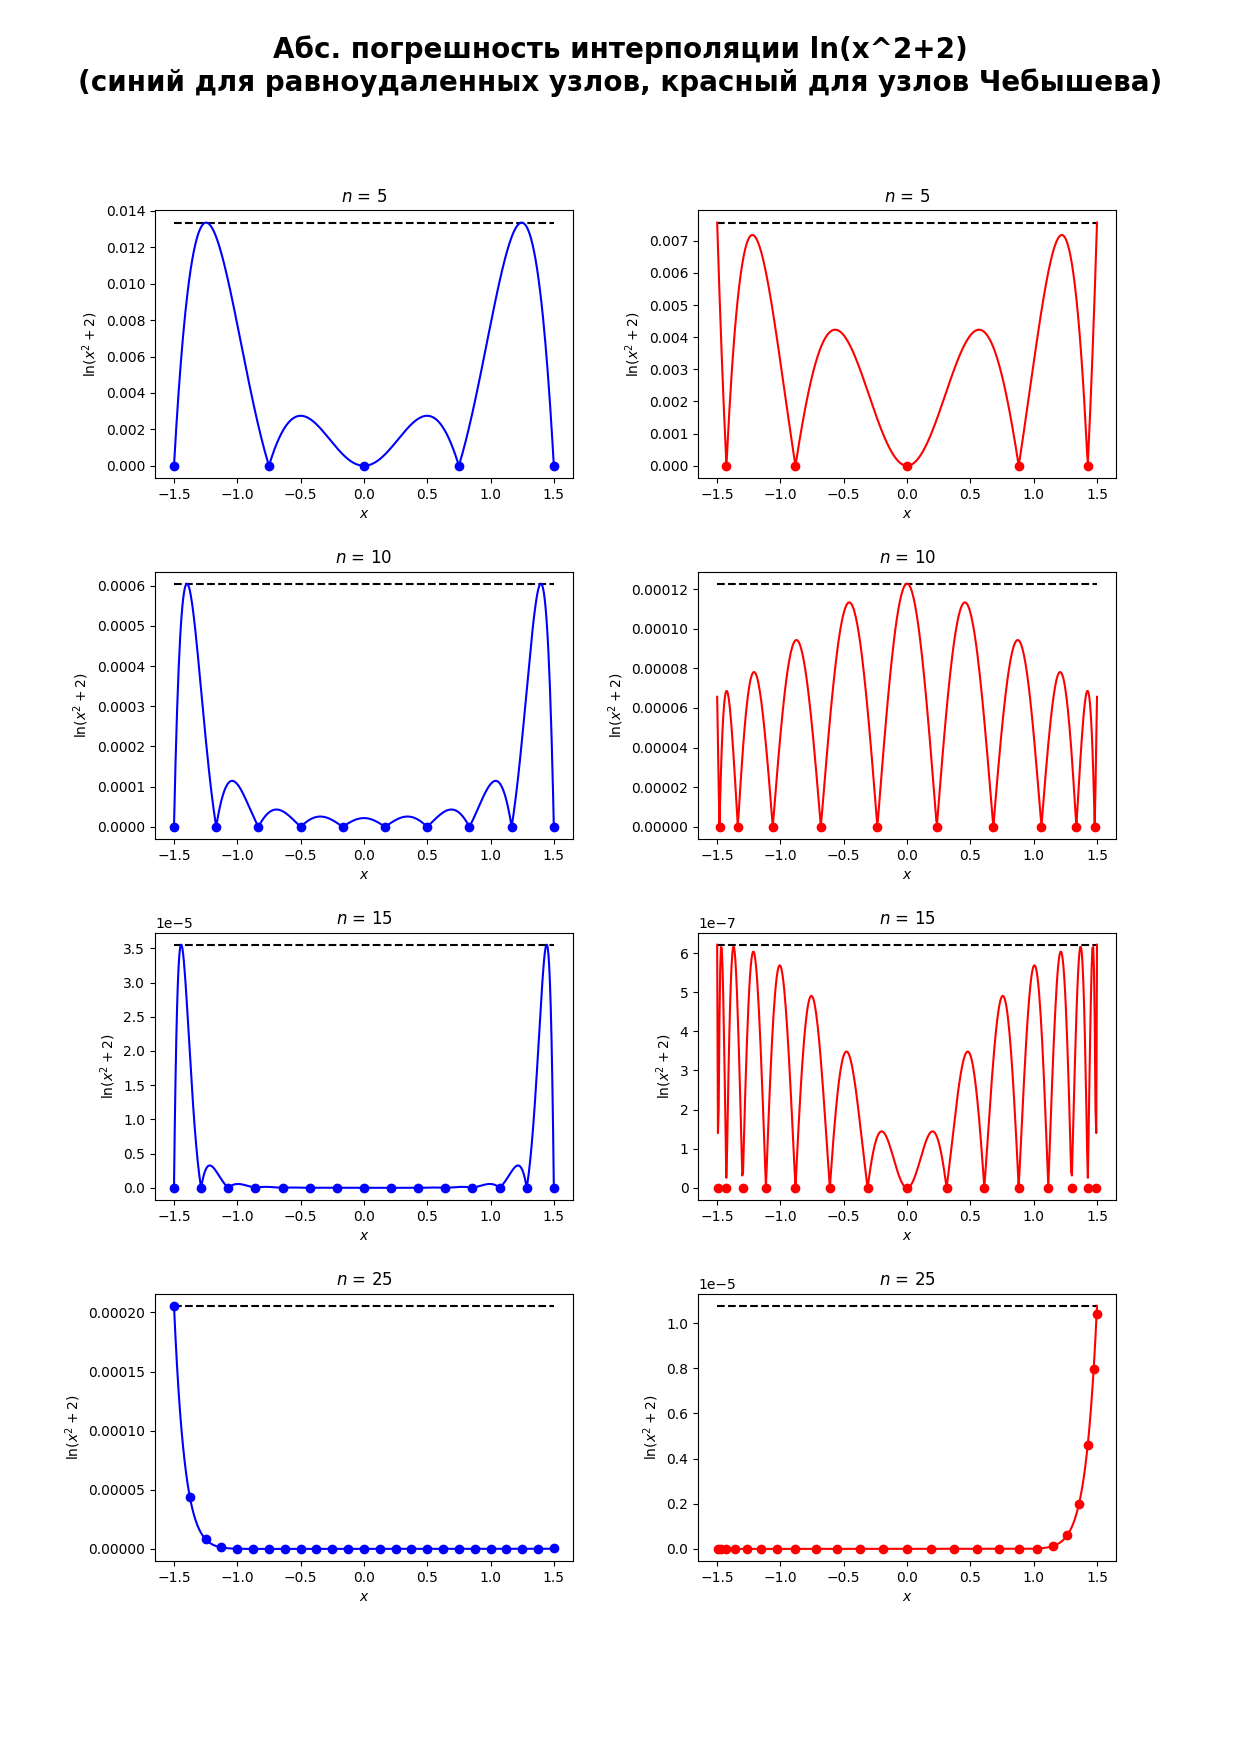
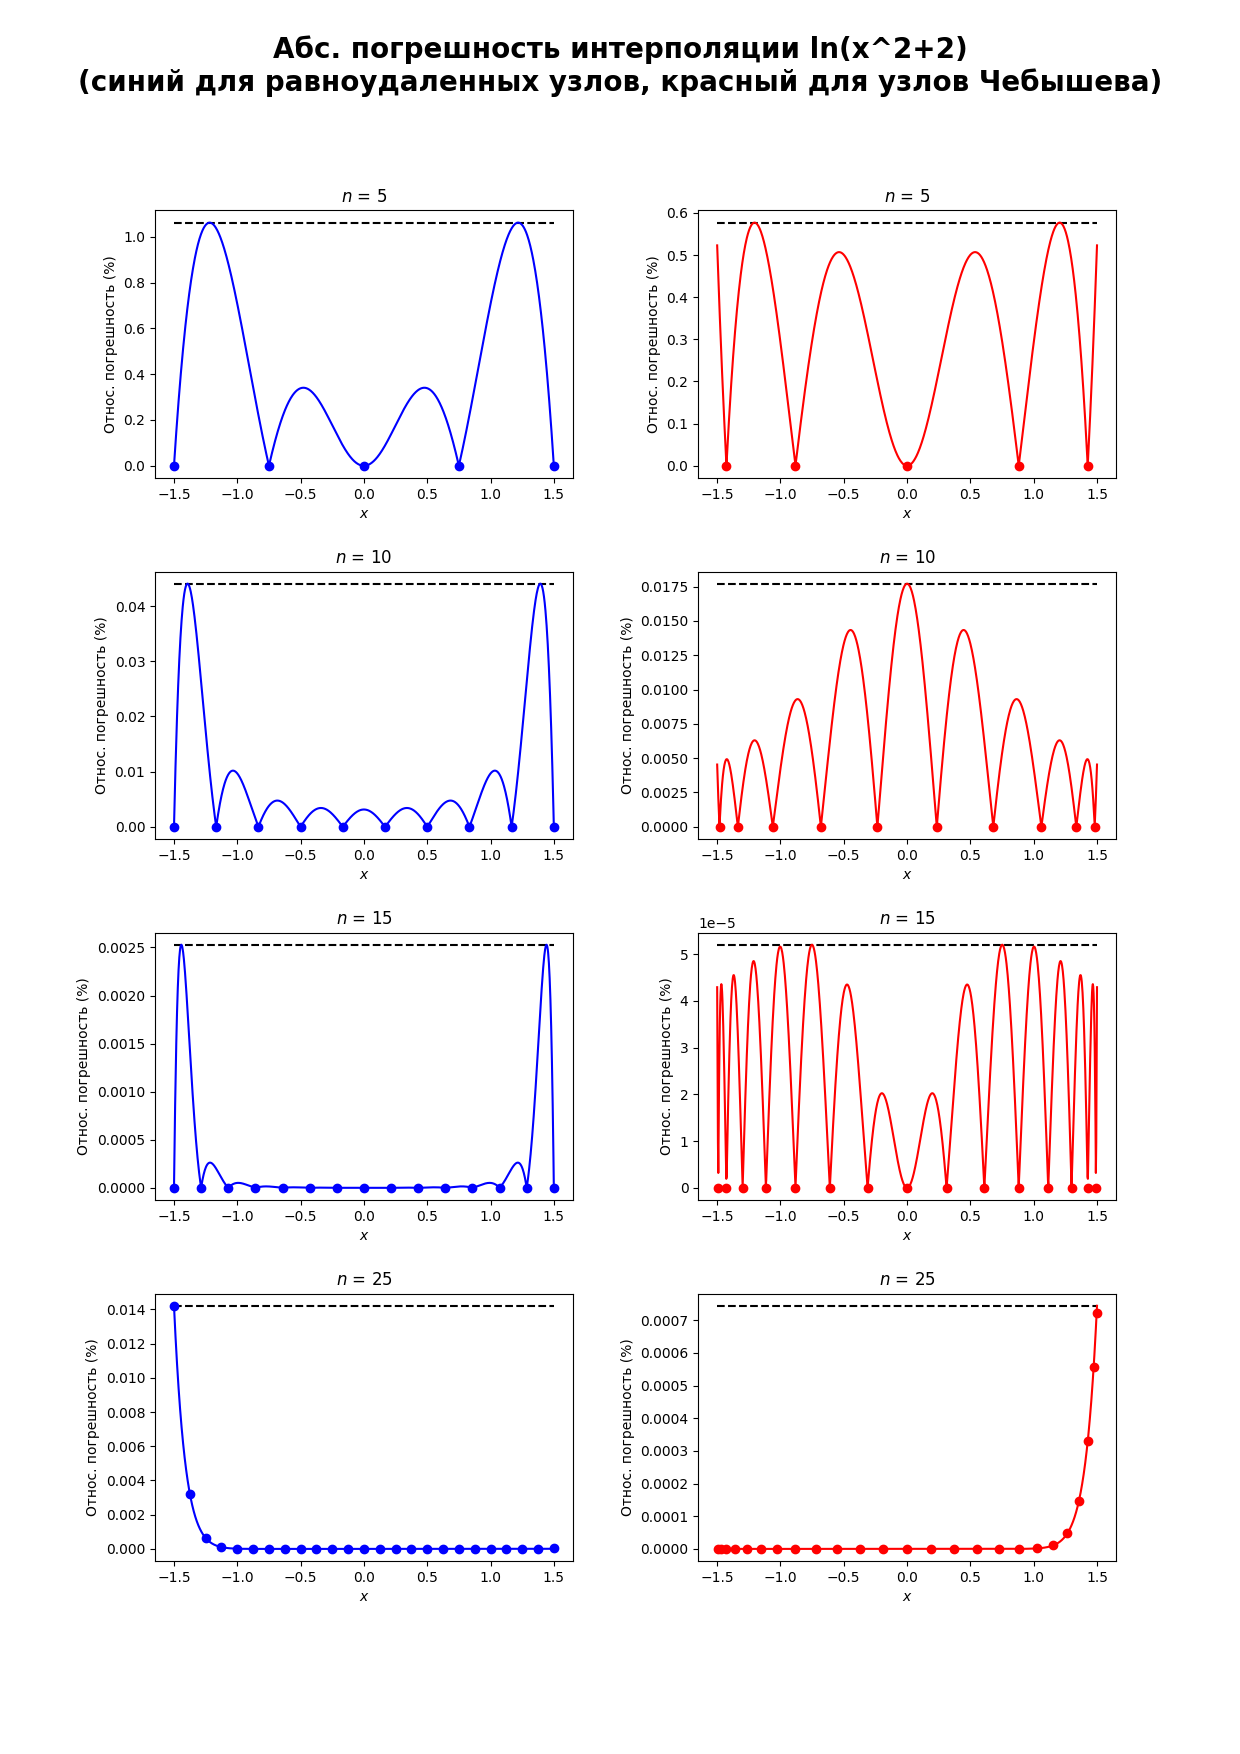
Improved calculations

diff --git a/Bonus/2/main.py b/Bonus/2/main.py
@@ -1,6 +1,6 @@
 import os
 import shutil
-from typing import Callable, Literal, Union
+from typing import Callable
 import numpy as np
 from numpy.polynomial.polynomial import Polynomial
 from scipy.interpolate import lagrange
@@ -8,7 +8,7 @@ import matplotlib.pyplot as plt
 
 _OUT_DIR = "output/"
 
-_DRAW_SAMPLE_SIZE = 500  # for np.linspace to draw functions
+_DRAW_SAMPLE_SIZE = 1000  # for np.linspace to draw functions
 
 _A4SIZE = np.array([4960, 7016])
 
@@ -61,13 +61,13 @@ def plot_err(
     fun_name: str,
     **kwargs,
 ):
-    ax.hlines(np.max(delta_x), a, b, "k", "dashed")
-    ax.plot(x, delta_x, kwargs.get("color", "b") + "-")
-    ax.plot(nodes, delta_nodes, kwargs.get("color", "b") + "o")
+    ax.hlines(np.max(delta_x * 100), a, b, "k", "dashed")
+    ax.plot(x, delta_x * 100, kwargs.get("color", "b") + "-")
+    ax.plot(nodes, delta_nodes * 100, kwargs.get("color", "b") + "o")
 
     ax.set_title(f"$n$ = {n}")
     ax.set_xlabel("$x$")
-    ax.set_ylabel(fun_name)
+    ax.set_ylabel("Относ. погрешность (%)")
 
 
 def make_fun_graphs(
@@ -142,8 +142,8 @@ def make_err_graphs(
         # Make interpolation with equidistant nodes
         nodes = equidistant_nodes(a, b, n)
         poly = lagrange_poly(nodes, fun)
-        delta_x = np.abs(fun(x) - poly(x))
-        delta_nodes = np.abs(fun(nodes) - poly(nodes))  # should be 0
+        delta_x = np.abs((fun(x) - poly(x)) / fun(x))
+        delta_nodes = np.abs((fun(nodes) - poly(nodes)) / fun(nodes))
         plot_err(
             ax_l,
             a,
@@ -159,8 +159,8 @@ def make_err_graphs(
         # Make interpolation with Chebyshev nodes
         nodes = chebyshev_nodes(a, b, n)
         poly = lagrange_poly(nodes, fun)
-        delta_x = np.abs(fun(x) - poly(x))
-        delta_nodes = np.abs(fun(nodes) - poly(nodes))  # should be 0
+        delta_x = np.abs((fun(x) - poly(x)) / fun(x))
+        delta_nodes = np.abs((fun(nodes) - poly(nodes)) / fun(nodes))
         plot_err(
             ax_r,
             a,
@@ -213,7 +213,7 @@ def main(debug: bool = False):
     n_values: list = [5, 10, 15, 25]
     functions: dict = {
         "$\\ln(x^2+2)$": lambda x: np.log(x**2 + 2),
-        "round($\\sin(x)$)": lambda x: np.round(np.sin(x)),
+        "round($\\sin(x)+2$)": lambda x: np.round(np.sin(x) + 2),
     }
 
     for fun_name, fun in functions.items():

diff --git a/Bonus/2/README.md b/Bonus/2/README.md
@@ -1,0 +1,26 @@
+# Bonus HW 2
+
+## Task
+
+Сделать сходящуюся и расходящуюся интерполяцию.
+
+Do a converging and diverging interpolation.
+
+
+## Approach
+
+y = ln(x^2+2) and y = round(sin(x)+2) were the functions chosen.
+
+Equally spaced points can produce diverging Lagrange interpolating polynomials (see [Runge's phenomenon](https://en.wikipedia.org/wiki/Runge%27s_phenomenon)). The second function chosen will diverge for large values of n. To contrast this divergence, a better approach is shown: using [Chebyshev nodes](https://en.wikipedia.org/wiki/Chebyshev_nodes).
+
+Also, the relative difference is graphed in order to evidence the effectiveness of using Chebyshev nodes and a way to mitigate error when interpolating with Lagrange's polynomial.
+
+## Results
+
+Converging interpolation (y = ln(x^2+2)):
+
+![Converging interpolation](output/ln(x%5E2+2).png)
+
+Diverging interpolation (y = round(sin(x)+2)):
+
+![Diverging interpolation](output/round(sin(x)+2).png)
